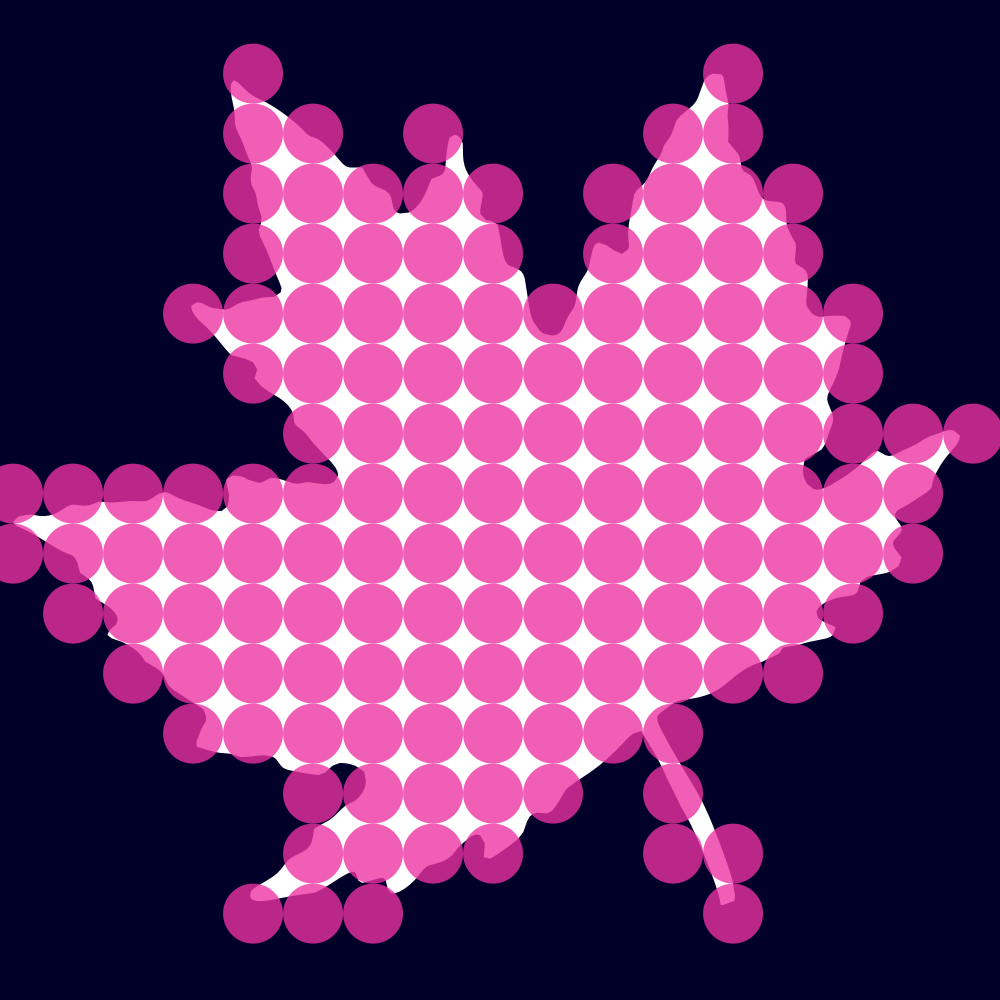
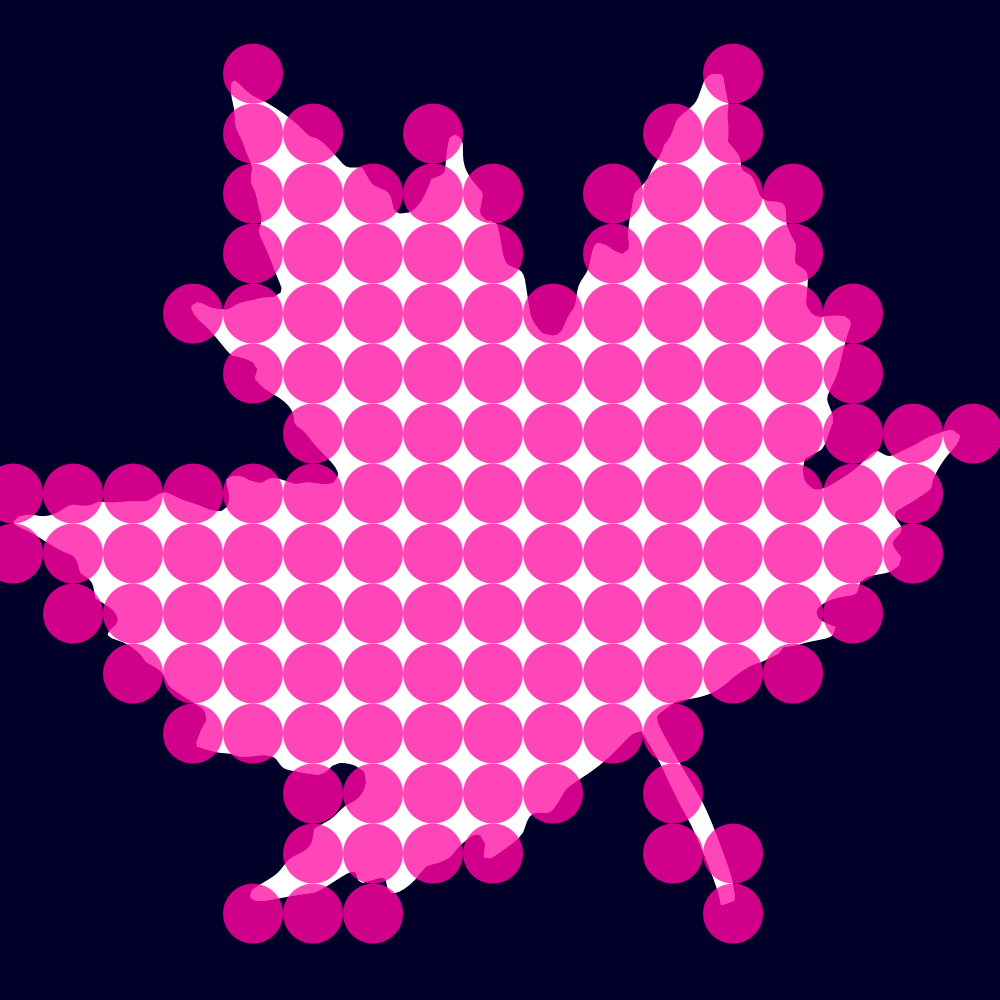
fix image color spaces

diff --git a/README.md b/README.md
@@ -471,10 +471,10 @@ Much of the functionality (but by no means all) is demonstrated below:
     <td align="center" valign="center"><b>Triangulation Dual</td>
   </tr>
   <tr>
-    <td valign="top" width="25%"><img src="resources/triangulation/urquhart1.png"></td>
-    <td valign="top" width="25%"><img src="resources/triangulation/urquhart2.png"></td>
-    <td valign="top" width="25%"><img src="resources/triangulation/gabriel1.png"></td>
-    <td valign="top" width="25%"><img src="resources/triangulation/triangulationDual.png"></td>
+    <td valign="top" width="25%"><img src="resources/meshing/urquhart1.png"></td>
+    <td valign="top" width="25%"><img src="resources/meshing/urquhart2.png"></td>
+    <td valign="top" width="25%"><img src="resources/meshing/gabriel1.png"></td>
+    <td valign="top" width="25%"><img src="resources/meshing/triangulationDual.png"></td>
   </tr>
   <tr>
     <td align="center" valign="center" colspan="2">Polygon faces of an <i>Urquhart Graph</i> (derived from a triangulation).</td>
@@ -511,8 +511,8 @@ Much of the functionality (but by no means all) is demonstrated below:
     <td align="center" valign="center" colspan="2"><b>Maximum Inscribed Rectangle</td>
   </tr>
   <tr>
-    <td valign="top"><img src="resources/pgs/inscribedCircle.gif"></td>
-    <td valign="top"><img src="resources/pgs/minimumBoundingRectangle.png"></td>
+    <td valign="top"><img src="resources/optimisation/inscribedCircle.gif"></td>
+    <td valign="top"><img src="resources/optimisation/minimumBoundingRectangle.png"></td>
     <td valign="top"><img src="resources/optimisation/mir.png"></td>
     <td valign="top" ><img src="resources/optimisation/mir2.png"></td>
   </tr>
@@ -522,7 +522,7 @@ Much of the functionality (but by no means all) is demonstrated below:
     <td align="center" valign="center" colspan="2"><b>Minimum Bounding Ellipse</td>
   </tr>
   <tr>
-    <td valign="top"><img src="resources/pgs/minimumBoundingCircle.png"></td>
+    <td valign="top"><img src="resources/optimisation/minimumBoundingCircle.png"></td>
     <td valign="top"><img src="resources/optimisation/mbc2.png"></td>
     <td valign="top"><img src="resources/optimisation/mbe1.png"></td>
     <td valign="top" ><img src="resources/optimisation/mbe2.png"></td>
@@ -535,7 +535,7 @@ Much of the functionality (but by no means all) is demonstrated below:
   </tr>
   <tr>
     <td valign="top" width="25%"><img src="resources/optimisation/mbt.png"></td>
-    <td valign="top" width="25%"><img src="resources/geometry_processing/envelope.png"></td>
+    <td valign="top" width="25%"><img src="resources/optimisation/envelope.png"></td>
     <td valign="top"><img src="resources/optimisation/apollonius1.gif"></td>
     <td valign="top"><img src="resources/optimisation/apollonius2.gif"></td>
   </tr>
